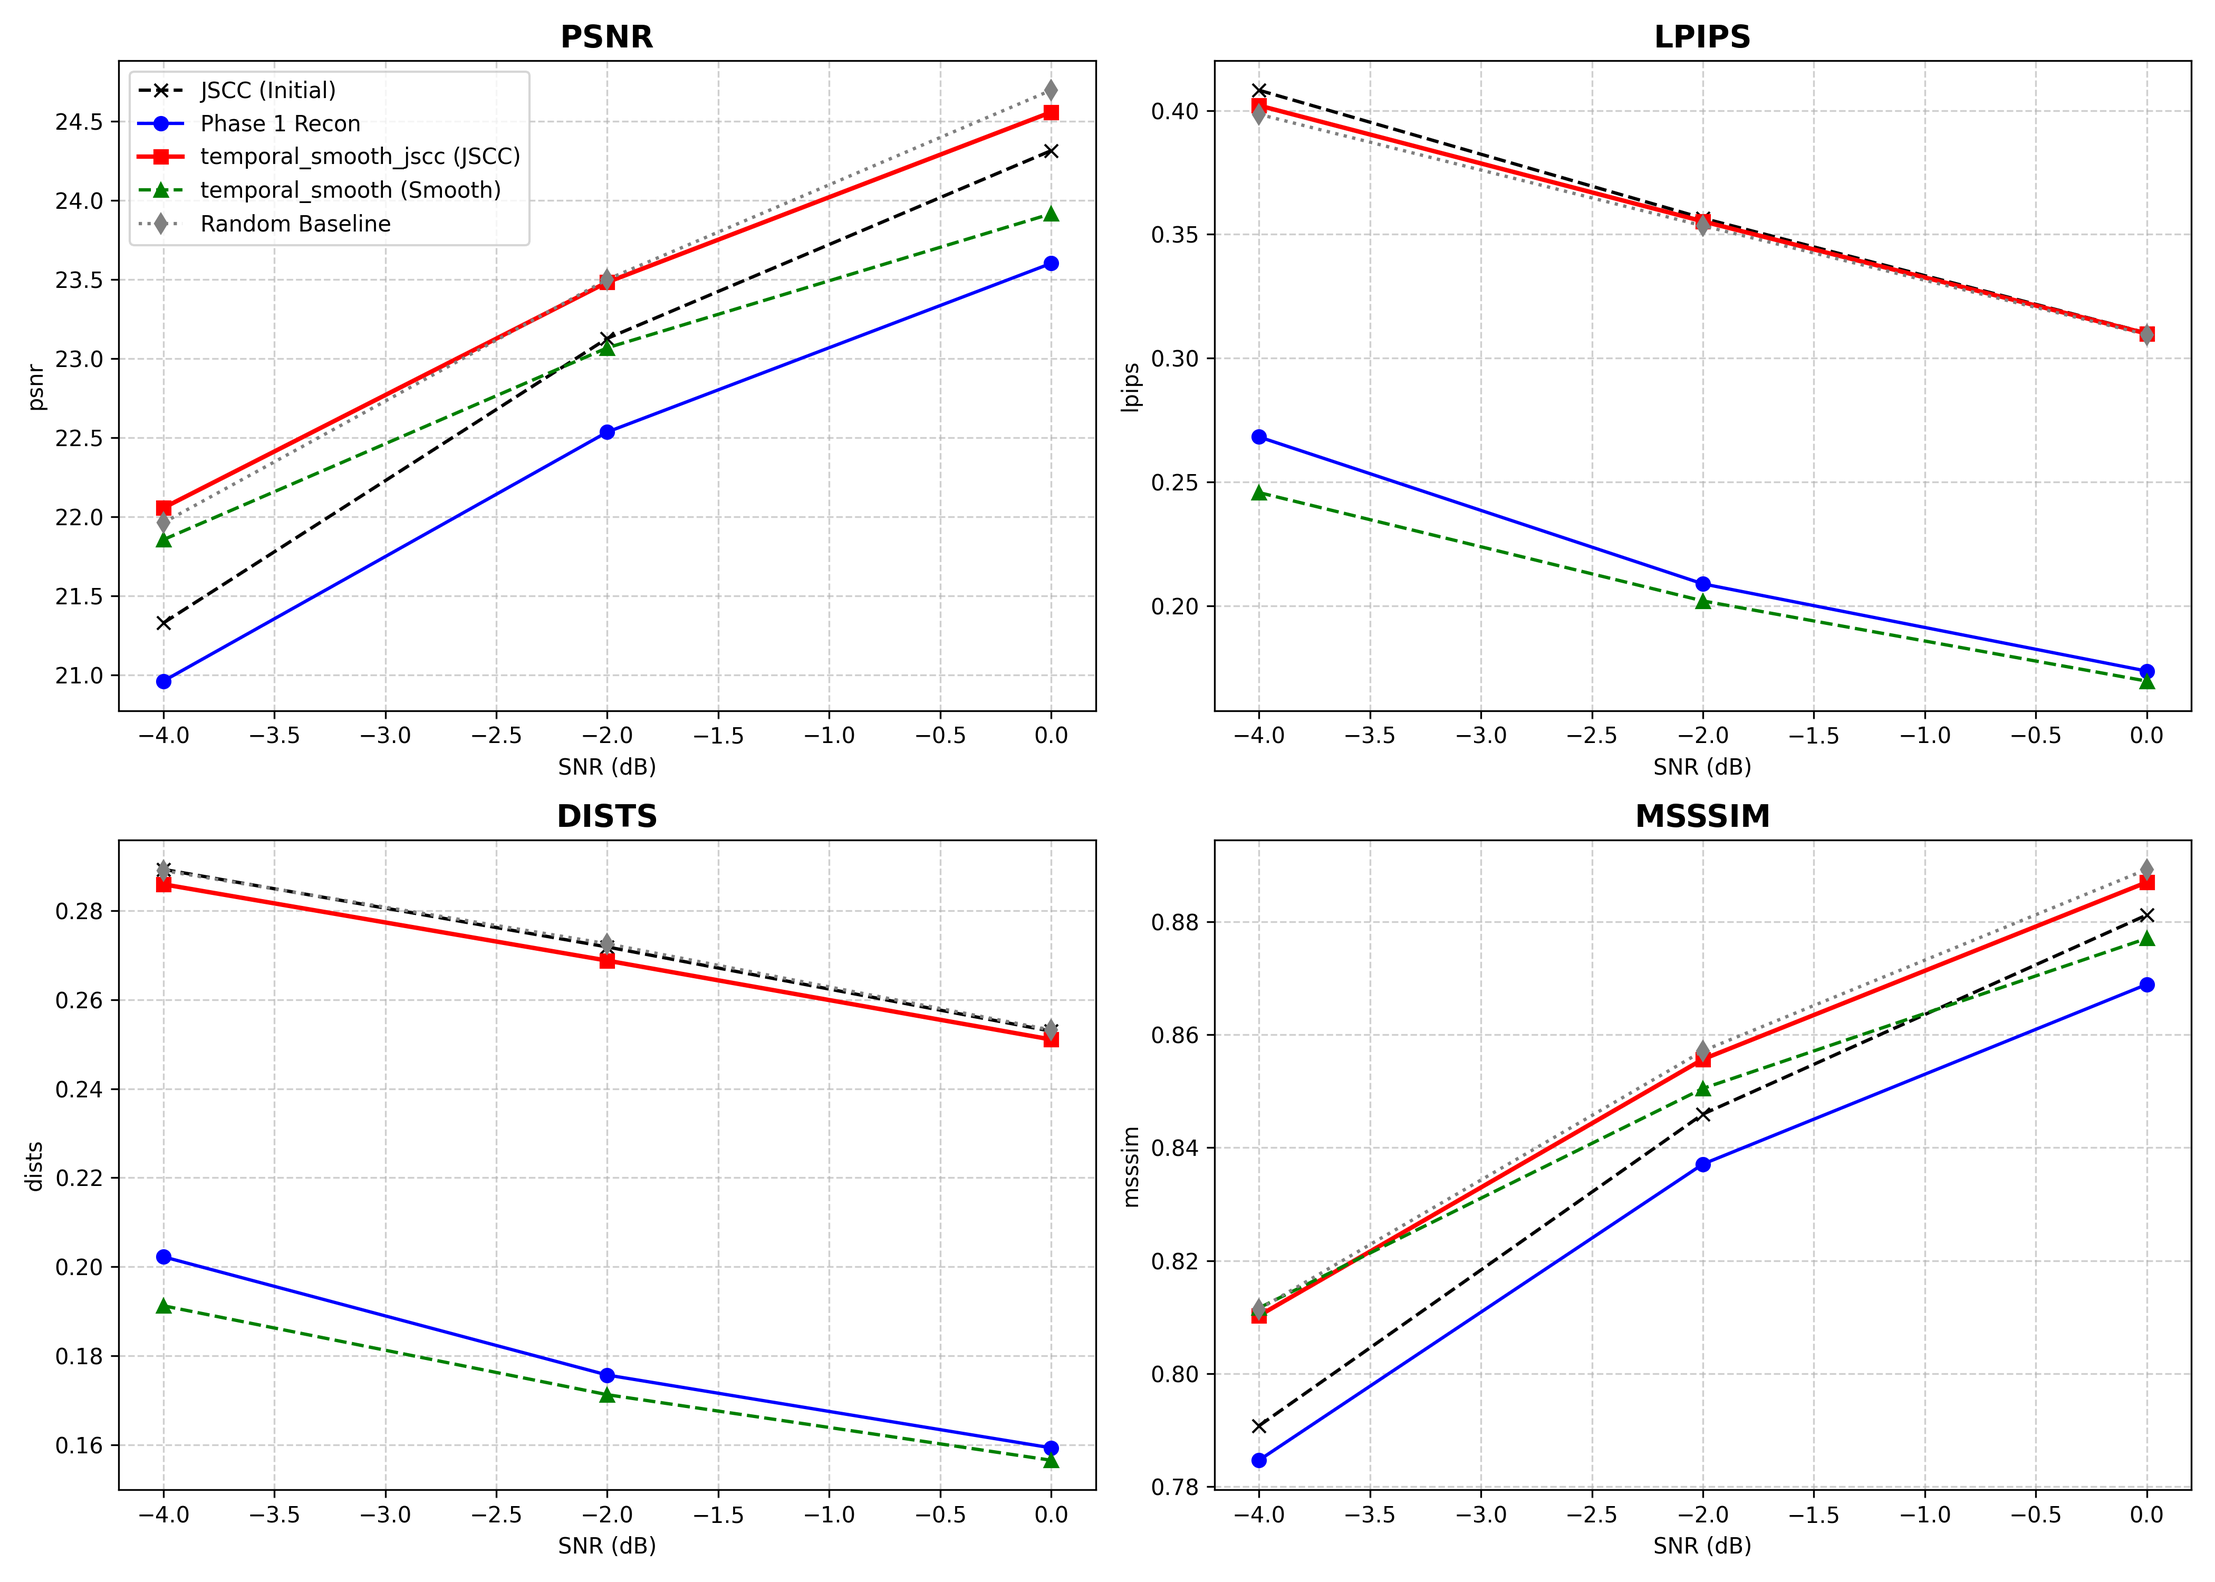
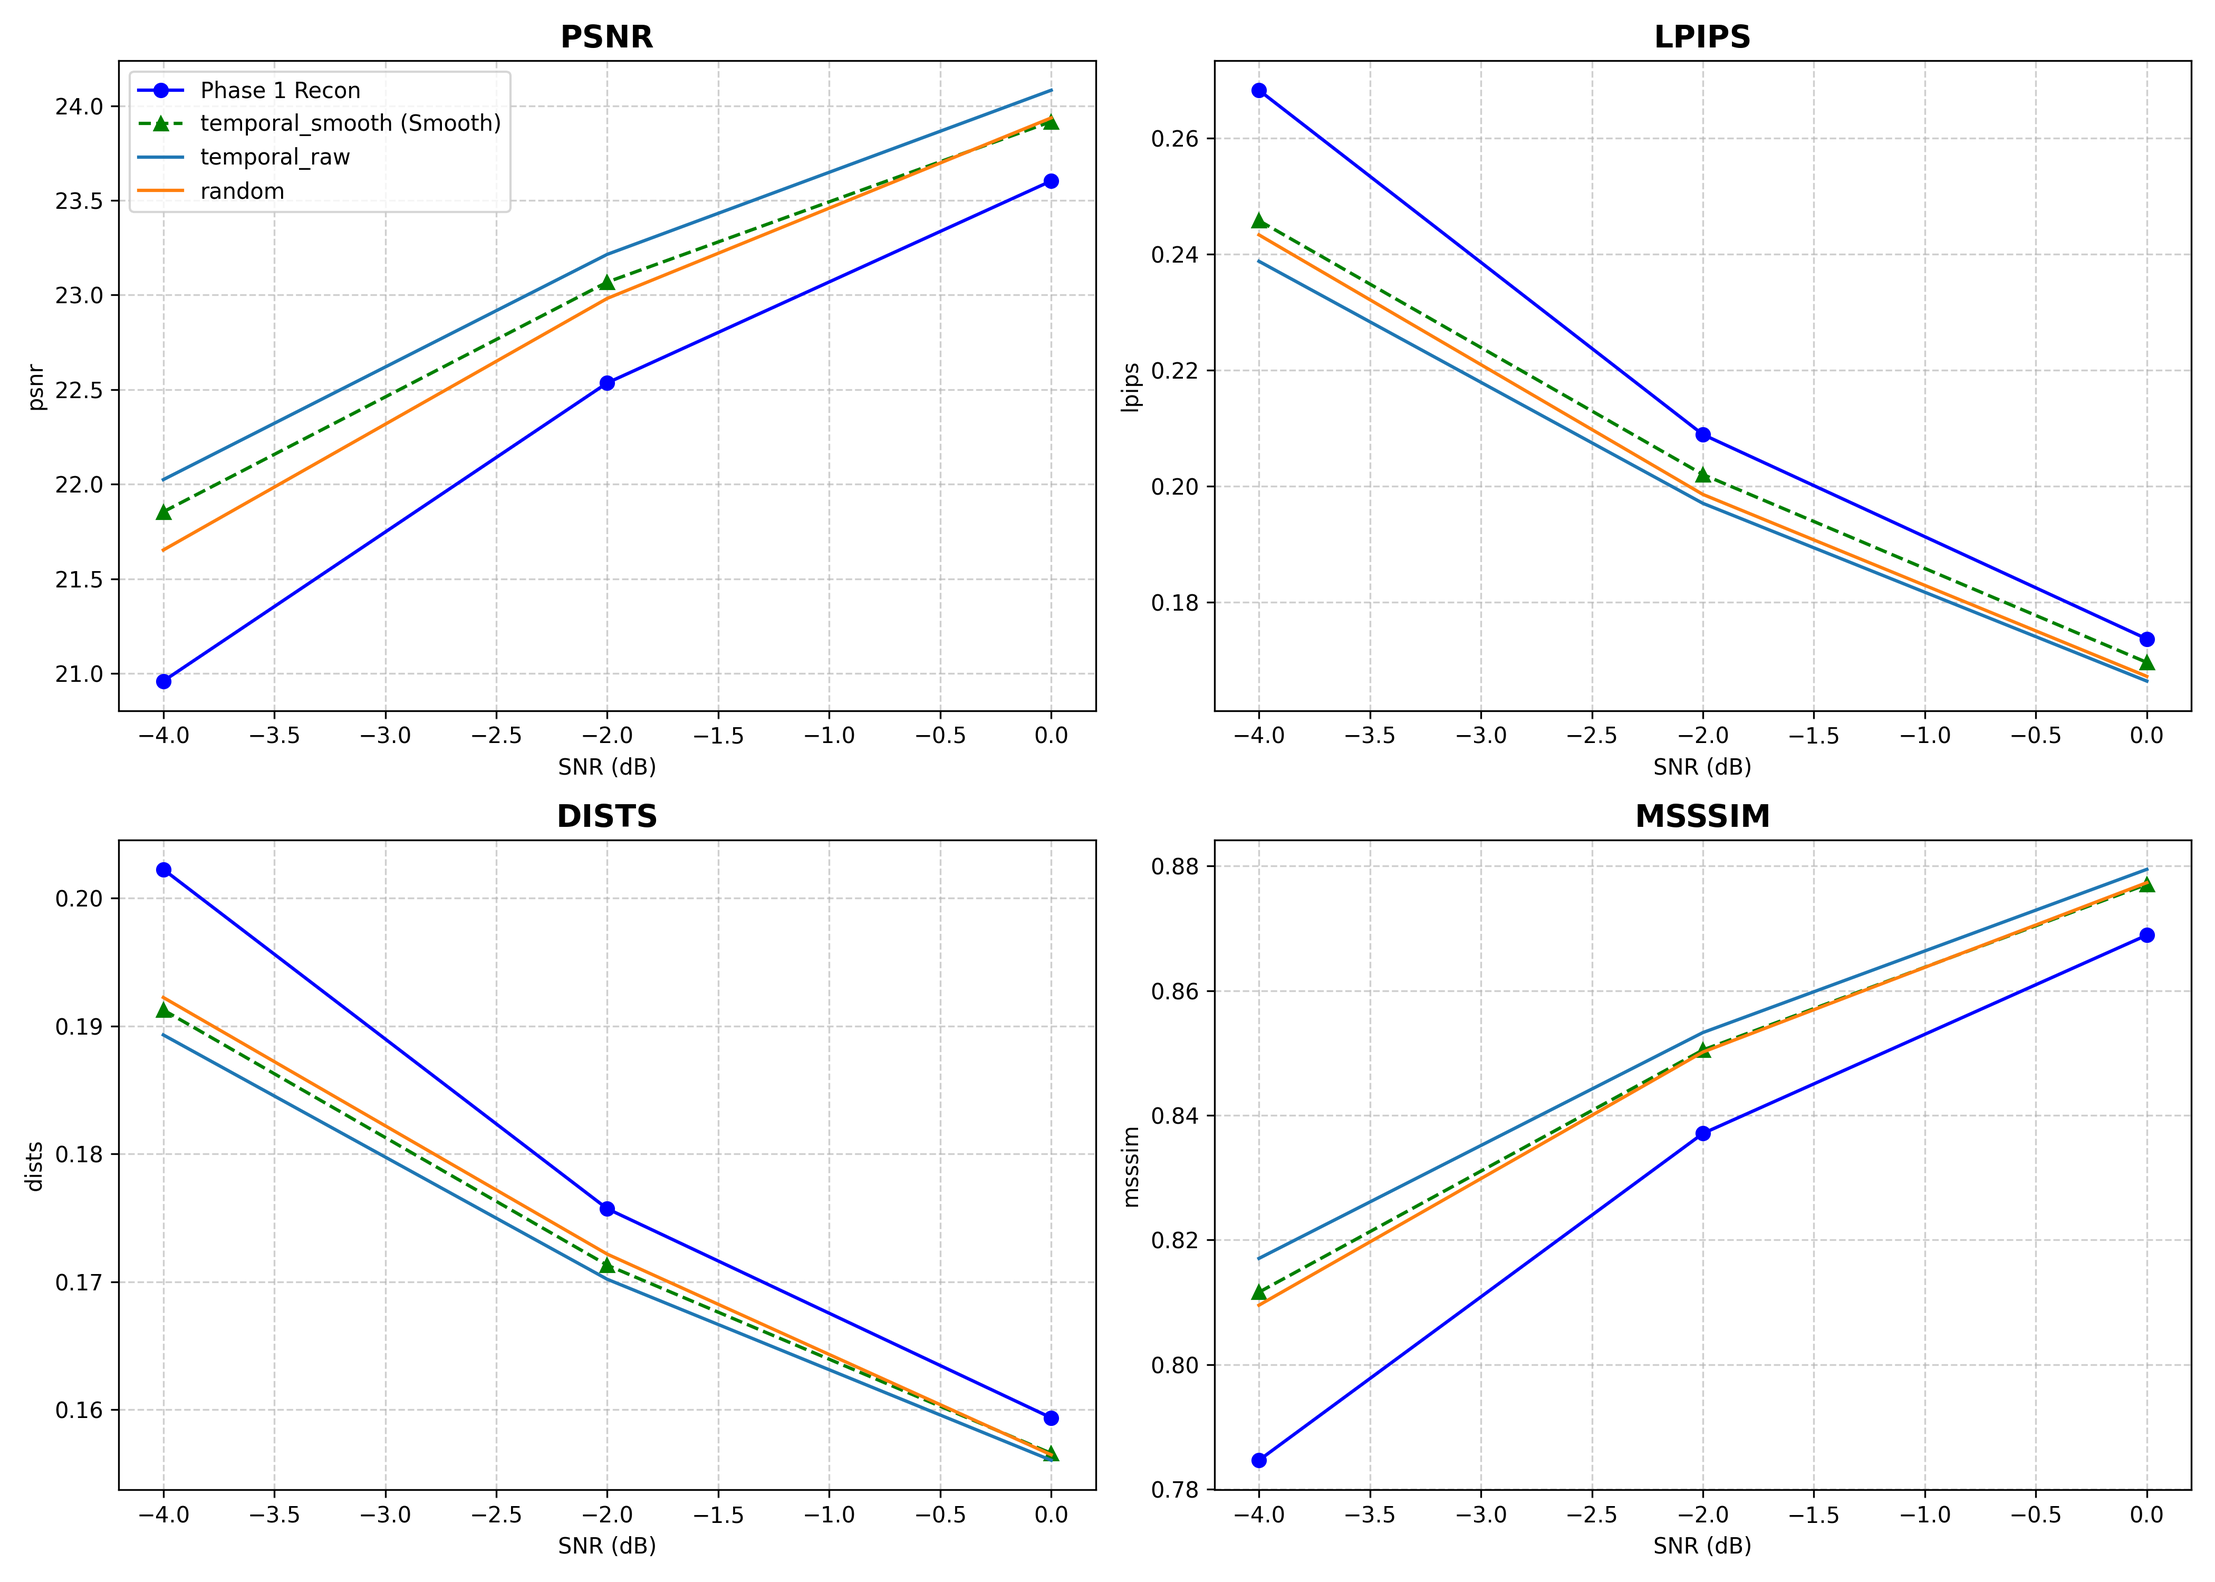
retrans

diff --git a/calc_fid.py b/calc_fid.py
@@ -1,245 +1,100 @@
-import argparse
 import os
-import glob
-import numpy as np
 import torch
-import torch.nn as nn
-from torchvision import models, transforms
-from torch.nn import functional as F
+import torchvision.transforms as transforms
+from torchmetrics.image.fid import FrechetInceptionDistance
 from PIL import Image
-from scipy import linalg
 from tqdm import tqdm
+import json
 
-def parse_args():
-    parser = argparse.ArgumentParser(description="Calculate FID from mixed directory structure on CPU")
-    parser.add_argument("--path", type=str, default="results_retrans_comparison/ffhq_demo_100/diffcom/djscc_2/awgn_-2dB/Retrans_rate_0.1_Comparison_zeta0.3_seed22/visuals", help="Path to the 'visuals' directory (containing 0, 1, 2... folders)")
-    parser.add_argument("--batch_size", type=int, default=10, help="Batch size for InceptionV3 inference")
-    return parser.parse_args()
-
-class InceptionV3FeatureExtractor(nn.Module):
+def calculate_fids_from_disk(base_path):
     """
-    FID計算用のInceptionV3ラッパー。
-    最終的な分類層の手前のPooling層(2048次元)の特徴量を取得します。
+    保存済みの画像から手法ごとのFIDを計算する
     """
-    def __init__(self):
-        super().__init__()
-        # Pretrainedモデルのロード (CPU)
-        inception = models.inception_v3(pretrained=True, transform_input=False)
-        inception.fc = nn.Identity()
-        inception.eval()
-        self.model = inception
+    device = torch.device("cuda" if torch.cuda.is_available() else "cpu")
+    print(f"Using device: {device}")
 
-    def forward(self, x):
-        # Inception v3 expects (299, 299)
-        if x.shape[-1] != 299 or x.shape[-2] != 299:
-            x = F.interpolate(x, size=(299, 299), mode='bilinear', align_corners=False)
-        
-        # Normalization (Inception specific: range -1 to 1)
-        # Input x is assumed to be [0, 1]
-        x = (x - 0.5) / 0.5
-        
-        # Forward pass steps to get features before FC
-        # torchvisionのInceptionV3はforwardが複雑なため、必要な部分だけ通します
-        x = self.model.Conv2d_1a_3x3(x)
-        x = self.model.Conv2d_2a_3x3(x)
-        x = self.model.Conv2d_2b_3x3(x)
-        x = self.model.maxpool1(x)
+    # 計算対象の手法（ファイル名の接頭辞）を定義
+    # 提供されたコードの保存形式に基づいています
+    methods = [
+        '1_JSCC_Init',
+        '2_Phase1_Recon',
+        '3_P2_perturbation_smooth',
+        '3_P2_perturbation_raw',
+        '3_P2_temporal_smooth',
+        '3_P2_temporal_raw',
+        '3_P2_Random'
+    ]
 
-        x = self.model.Conv2d_3b_1x1(x)
-        x = self.model.Conv2d_4a_3x3(x)
-        x = self.model.maxpool2(x)
+    # FIDメトリクスの初期化 (手法ごと)
+    fid_metrics = {
+        m: FrechetInceptionDistance(feature=2048, normalize=True).to(device) 
+        for m in methods
+    }
 
-        x = self.model.Mixed_5b(x)
-        x = self.model.Mixed_5c(x)
-        x = self.model.Mixed_5d(x)
-        x = self.model.Mixed_6a(x)
-        x = self.model.Mixed_6b(x)
-        x = self.model.Mixed_6c(x)
-        x = self.model.Mixed_6d(x)
-        x = self.model.Mixed_6e(x)
-        x = self.model.Mixed_7a(x)
-        x = self.model.Mixed_7b(x)
-        x = self.model.Mixed_7c(x)
+    visuals_dir = os.path.join(base_path, 'visuals')
+    if not os.path.exists(visuals_dir):
+        print(f"Error: {visuals_dir} does not exist.")
+        return
 
-        x = self.model.avgpool(x)
-        x = torch.flatten(x, 1)
-        
-        return x
-
-def get_statistics(image_paths, model, batch_size=10, device='cpu'):
-    """
-    画像パスのリストから特徴量を抽出し、平均(mu)と共分散(sigma)を計算する
-    """
-    model.eval()
-    
-    # 画像前処理
-    preprocess = transforms.Compose([
-        transforms.Resize((299, 299)),
-        transforms.ToTensor(),
+    # バッチディレクトリ (0, 1, 2...) を取得
+    batch_dirs = sorted([
+        d for d in os.listdir(visuals_dir) 
+        if os.path.isdir(os.path.join(visuals_dir, d)) and d.isdigit()
     ])
 
-    activations = []
-    
-    # バッチごとに処理
-    for i in tqdm(range(0, len(image_paths), batch_size), leave=False):
-        batch_paths = image_paths[i:i + batch_size]
-        batch_imgs = []
-        
-        for p in batch_paths:
-            try:
-                img = Image.open(p).convert('RGB')
-                img_t = preprocess(img)
-                batch_imgs.append(img_t)
-            except Exception as e:
-                print(f"Warning: Failed to load {p}. Skipping.")
+    transform = transforms.Compose([
+        transforms.ToTensor(), # [0, 255] -> [0.0, 1.0]
+    ])
 
-        if not batch_imgs:
+    print(f"Processing {len(batch_dirs)} samples from: {visuals_dir}")
+
+    for b_dir in tqdm(batch_dirs):
+        path = os.path.join(visuals_dir, b_dir)
+        
+        # Ground Truth (Real画像) の読み込み
+        gt_path = os.path.join(path, '0_GT.png')
+        if not os.path.exists(gt_path):
             continue
-
-        batch_tensor = torch.stack(batch_imgs).to(device)
-
-        with torch.no_grad():
-            feat = model(batch_tensor)
         
-        activations.append(feat.cpu().numpy())
-
-    if not activations:
-        return None, None
-
-    activations = np.concatenate(activations, axis=0)
-
-    mu = np.mean(activations, axis=0)
-    sigma = np.cov(activations, rowvar=False)
-    
-    return mu, sigma
-
-def calculate_frechet_distance(mu1, sigma1, mu2, sigma2, eps=1e-6):
-    """
-    2つのガウス分布間のFrechet Distanceを計算
-    """
-    mu1 = np.atleast_1d(mu1)
-    mu2 = np.atleast_1d(mu2)
-
-    sigma1 = np.atleast_2d(sigma1)
-    sigma2 = np.atleast_2d(sigma2)
-
-    assert mu1.shape == mu2.shape, "Training and test mean vectors have different lengths"
-    assert sigma1.shape == sigma2.shape, "Training and test covariances have different dimensions"
-
-    diff = mu1 - mu2
-
-    # Product might be almost singular
-    covmean, _ = linalg.sqrtm(sigma1.dot(sigma2), disp=False)
-    
-    if not np.isfinite(covmean).all():
-        msg = "fid calculation produces singular product; adding %s to diagonal of cov estimates" % eps
-        print(msg)
-        offset = np.eye(sigma1.shape[0]) * eps
-        covmean = linalg.sqrtm((sigma1 + offset).dot(sigma2 + offset))
-
-    # Numerical error might give slight complex component
-    if np.iscomplexobj(covmean):
-        if not np.allclose(np.diagonal(covmean).imag, 0, atol=1e-3):
-            m = np.max(np.abs(covmean.imag))
-            raise ValueError("Imaginary component {}".format(m))
-        covmean = covmean.real
-
-    tr_covmean = np.trace(covmean)
-
-    return (diff.dot(diff) + np.trace(sigma1) + np.trace(sigma2) - 2 * tr_covmean)
-
-def main():
-    args = parse_args()
-    device = torch.device('cpu') # 強制的にCPU
-    
-    if not os.path.exists(args.path):
-        print(f"Error: Path {args.path} does not exist.")
-        return
-
-    print(f"Loading InceptionV3 model on {device}...")
-    model = InceptionV3FeatureExtractor().to(device)
-
-    # 1. ファイルの収集とグループ化
-    # visuals/0/0_GT.png, visuals/1/0_GT.png ... のように散らばっているのをまとめる
-    
-    gt_files = []
-    methods_files = {} # {'3_P2_hoge.png': [path1, path2, ...]}
-
-    print("Scanning directories...")
-    # visuals以下のサブディレクトリ（0, 1, 2...）を走査
-    subdirs = [d for d in os.listdir(args.path) if os.path.isdir(os.path.join(args.path, d))]
-    
-    count_imgs = 0
-    for d in subdirs:
-        dir_path = os.path.join(args.path, d)
-        files = os.listdir(dir_path)
+        # PILで開きRGBに変換してTensor化
+        gt_img = transform(Image.open(gt_path).convert('RGB')).unsqueeze(0).to(device)
         
-        for f in files:
-            # フィルタリング条件
-            if not f.endswith('.png'): continue
-            if f.startswith('Mask_'): continue
-            if f.startswith('Uncertainty_'): continue
-            
-            full_path = os.path.join(dir_path, f)
-            
-            if f == '0_GT.png':
-                gt_files.append(full_path)
-            else:
-                if f not in methods_files:
-                    methods_files[f] = []
-                methods_files[f].append(full_path)
-            
-            count_imgs += 1
+        # 各手法の画像をFakeとして更新
+        for m in methods:
+            m_path = os.path.join(path, f'{m}.png')
+            if os.path.exists(m_path):
+                try:
+                    m_img = transform(Image.open(m_path).convert('RGB')).unsqueeze(0).to(device)
+                    
+                    # メトリクス更新 (real=TrueはGT, real=Falseは手法の出力)
+                    fid_metrics[m].update(gt_img, real=True)
+                    fid_metrics[m].update(m_img, real=False)
+                except Exception as e:
+                    print(f"Skip {m} in batch {b_dir} due to error: {e}")
 
-    if not gt_files:
-        print("Error: No '0_GT.png' files found.")
-        return
-    
-    print(f"Found {len(gt_files)} GT images.")
-    print(f"Found {len(methods_files)} methods to compare.")
-    
-    # 2. GTの統計量を計算 (キャッシュとして一度だけ計算)
-    print("\nCalculating statistics for Ground Truth (GT)...")
-    mu_gt, sigma_gt = get_statistics(gt_files, model, batch_size=args.batch_size, device=device)
-    
-    if mu_gt is None:
-        print("Error calculating GT statistics.")
-        return
+    # 最終的なスコアの集計
+    final_fids = {}
+    print("\n--- Final FID Results ---")
+    for m in methods:
+        try:
+            # .compute() で最終的なFIDを算出
+            score = fid_metrics[m].compute().item()
+            final_fids[m] = score
+            print(f"{m:25s}: {score:.4f}")
+        except Exception as e:
+            print(f"{m:25s}: Could not compute (maybe too few samples).")
 
-    # 3. 各手法のFID計算
-    print("\nCalculating FID for each method...")
-    results = []
+    # 結果をJSONとして保存
+    output_json = os.path.join(base_path, "post_process_fid.json")
+    with open(output_json, 'w') as f:
+        json.dump(final_fids, f, indent=4)
+    print(f"\nResults saved to: {output_json}")
 
-    # ファイル名でソートして実行
-    for method_name in sorted(methods_files.keys()):
-        file_list = methods_files[method_name]
-        
-        # 枚数がGTと大きく異なるとFIDの信頼性が下がるため警告
-        if len(file_list) != len(gt_files):
-            print(f"Warning: {method_name} has {len(file_list)} images (GT has {len(gt_files)}).")
-
-        print(f"Processing {method_name} ...")
-        mu_method, sigma_method = get_statistics(file_list, model, batch_size=args.batch_size, device=device)
-        
-        if mu_method is not None:
-            fid_value = calculate_frechet_distance(mu_gt, sigma_gt, mu_method, sigma_method)
-            results.append((method_name, fid_value))
-            print(f"  -> FID: {fid_value:.4f}")
-        else:
-            print(f"  -> Error: Could not calculate statistics.")
-
-    # 4. 結果のサマリー表示
-    print("\n" + "="*50)
-    print("FID RESULTS SUMMARY (Lower is better)")
-    print("="*50)
-    # FIDが良い順（小さい順）にソート
-    results.sort(key=lambda x: x[1])
-    
-    print(f"{'Method / Filename':<40} | {'FID':<10}")
-    print("-" * 52)
-    for name, score in results:
-        print(f"{name:<40} | {score:.4f}")
-    print("="*50)
+    return final_fids
 
 if __name__ == "__main__":
-    main()
+    # 計算対象のディレクトリパスを指定
+    target_results_path = r"results_retrans_comparison/ffhq_demo/diffcom/djscc_2/awgn_-4dB/Retrans_rate_0.1_Comparison_zeta0.3_seed22"
+    
+    # FID計算実行
+    calculate_fids_from_disk(target_results_path)

diff --git a/main_diffcom_retransmission.py b/main_diffcom_retransmission.py
@@ -357,7 +357,7 @@ def p_sample_loop(config, noise_schedule, unet, diffusion, operator, cond_method
         return cond_method(*args, **kwargs)
 
     all_results_history = []
-    json_filename = f"{config.result_name}.json"
+    json_filename = f"SNR{config.CSNR}_{config.result_name}.json"
     json_path = os.path.join(config.save_path, json_filename)
 
     try:

diff --git a/plot_result.py b/plot_result.py
@@ -18,11 +18,11 @@ TARGET_SNRS = [-4.0, -2.0, 0.0]
 
 # 3. プロットしたい手法のリスト
 TARGET_METHODS = [
-    "jscc_init", 
+    #"jscc_init", 
     "phase1_recon", 
-    "temporal_smooth_jscc", 
     "temporal_smooth",
-    "random_jscc"
+    "temporal_raw",
+    "random"
 ]
 
 # 4. 凡例の表示名マッピング

diff --git a/vit_imp.py b/vit_imp.py
@@ -103,6 +103,6 @@ def visualize_attention(image_path):
 
 # --- 実行 ---
 # visualize_attention("path/to/image.jpg")
-path = "testsets/ffhq_demo/69904.png"
-#path = "val2017/000000000139.jpg"
+path = "testsets/ffhq_demo/69910.png"
+#path = "val2017/000000000724.jpg"
 visualize_attention(path)
